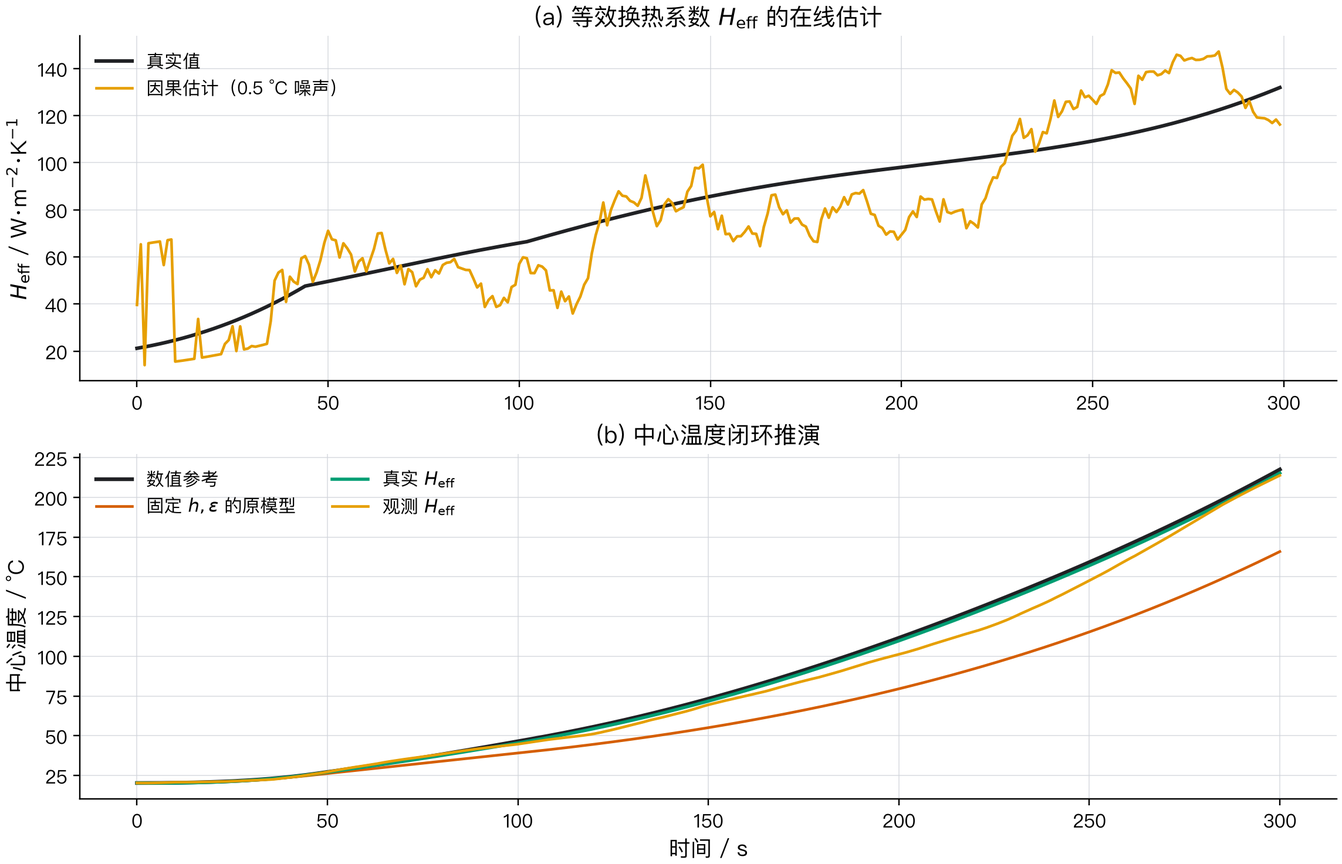
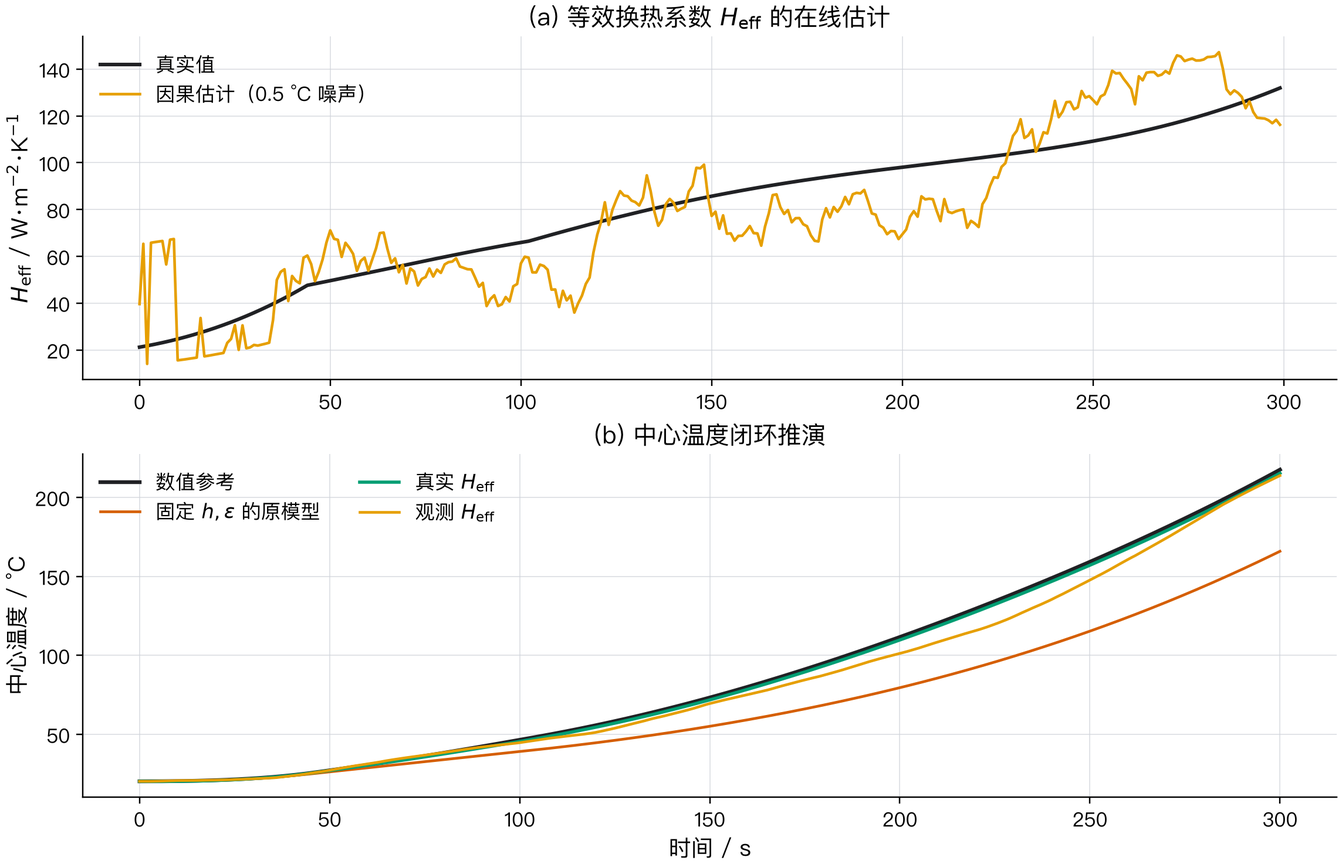
docs: address thesis review feedback

diff --git a/paper/main.tex b/paper/main.tex
@@ -73,23 +73,25 @@
 \pagenumbering{Roman}
 \chapter*{摘\quad 要}
 \addcontentsline{toc}{chapter}{摘要}
-金属热处理过程需要同时掌握工件内部温度场、炉温控制和表面换热状态。传统数值求解能够提供可靠基准，但在大量候选工艺推演和在线滚动决策中计算开销随模型规模快速增长。固定工况的温度场拟合又难以直接回答控制量改变后的未来状态。本文将热处理温度场表述为受控动力学系统，构建显式接收当前温度场、炉温动作和热物性参数的递归世界模型。模型以残差多层感知机预测温度增量，采用五步闭环展开训练，并把温变热传导及对流辐射边界的离散能量残差加入损失函数。
+金属热处理过程需要同时掌握工件内部温度场、炉温控制和表面换热状态。传统数值求解能够提供可靠基准，但在大量候选工艺推演和在线滚动决策中计算开销随模型规模快速增长。固定工况的温度场拟合又难以直接回答控制量改变后的未来状态。本文将热处理温度场表述为受控动力学系统，构建显式接收当前温度场、炉温动作和热物性参数的递归世界模型。该模型属于有监督神经动力学模型，以离散物理残差作为正则项。模型采用多层感知机预测温度增量，通过五步闭环展开学习递归状态转移。
 
-动态边界的可辨识性分析给出本文的关键参数化。单次温度转移对对流换热系数和表面发射率的灵敏度只有一个独立方向，可观测量为等效换热系数 $\Heff$。据此建立 $\Heff$ 驱动的状态转移模型，并配置因果边界观测器和增广状态集合卡尔曼滤波器。该结构把温度场预测、边界估计和滚动控制连接到同一状态空间中。
+动态边界的瞬时局部可辨识性分析给出本文的关键参数化。在 $h(t)$ 与 $\varepsilon(t)$ 逐时自由变化的观测模型下，单次温度转移对二者的灵敏度只有一个独立方向，可观测组合为等效换热系数 $\Heff$。据此建立 $\Heff$ 驱动的状态转移模型，并配置因果边界观测器和增广状态集合卡尔曼滤波器。控制器采用常值尾部假设下的单移动阻塞滚动动作搜索。该结构把温度场预测、边界估计和控制连接到同一状态空间中。
 
-数值实验采用 C45/AISI 1045 类中碳钢一维平板，考虑温变导热系数、温变比热和灰体辐射。三随机种子结果显示，物理约束模型在控制曲线 OOD 上将滚动 RMSE 降低 $6.8\%$，将物理残差降低 $44.8\%$。四参数组合 OOD 的最大误差由 \SI{121.76}{\degreeCelsius} 降至 \SI{61.69}{\degreeCelsius}。在动态边界测试中，$\Heff$ 参数化将滚动 RMSE 从 $2.285\pm0.108$~\si{\degreeCelsius} 降至 $1.409\pm0.068$~\si{\degreeCelsius}。独立自适应 BDF 求解器上的结果保持一致，单条轨迹推演获得 55.4 倍在线加速。五个测点配合集合滤波后，中心温度状态估计 RMSE 为 \SI{0.231}{\degreeCelsius}。严格参数 OOD 工况下，风险感知控制的场景配对综合目标平均降低 1.737，95\% bootstrap 区间为 $[-3.291,-0.226]$。这些结果说明，可辨识边界表示和轨迹级物理约束能够提高热处理世界模型的分布外推演质量，并支持内部温度不可完全测量时的滚动工艺决策。
+数值实验采用 C45/AISI 1045 类中碳钢一维平板，考虑温变导热系数、温变比热和灰体辐射。三随机种子结果显示，物理正则使控制曲线 OOD 的离散物理残差降低 $44.8\%$。四参数组合 OOD 的最大误差由 \SI{121.76}{\degreeCelsius} 降至 \SI{61.69}{\degreeCelsius}。在动态边界测试中，$\Heff$ 参数化将滚动 RMSE 从 $2.285\pm0.108$~\si{\degreeCelsius} 降至 $1.409\pm0.068$~\si{\degreeCelsius}。交叉求解器数值验证保持相同排序，单条轨迹推演获得 55.4 倍在线加速。在包含中心热电偶的理想五测点场景中，未观测节点 RMSE 为 \SI{1.073}{\degreeCelsius}。严格参数 OOD 工况下，风险感知控制的场景配对综合目标平均降低 1.737，95\% bootstrap 区间为 $[-3.291,-0.226]$。这些结果说明，可辨识边界表示和轨迹级物理约束能够改善热处理世界模型的分布外推演质量，并支持内部温度不可完全测量时的滚动工艺决策。
 
 \noindent\textbf{关键词：} 金属热处理；温度场；物理信息神经网络；世界模型；参数辨识；模型预测控制
 
 \chapter*{Abstract}
 \addcontentsline{toc}{chapter}{Abstract}
-Accurate heat-treatment operation requires a joint description of the internal temperature field, furnace-temperature commands, and surface heat transfer. Conventional solvers provide reliable references, while repeated process screening and receding-horizon decisions become expensive as model fidelity grows. A fixed-condition field regressor also has no direct mechanism for evaluating unseen command sequences. This study formulates the thermal process as a controlled dynamical system and develops a recursive world model conditioned on the current temperature field, the furnace command, and thermophysical parameters. A residual multilayer perceptron predicts temperature increments. Five-step closed-loop unrolling and a discrete energy-balance loss encode temperature-dependent conduction and convective-radiative boundaries.
+\begin{spacing}{1.20}
+Accurate heat-treatment operation requires a joint description of the internal temperature field, furnace-temperature commands, and surface heat transfer. Conventional solvers provide reliable references, while repeated process screening and receding-horizon decisions become expensive as model fidelity grows. A fixed-condition field regressor also has no direct mechanism for evaluating unseen command sequences. This study formulates the thermal process as a controlled dynamical system and develops a supervised neural-dynamics world model conditioned on the current temperature field, furnace command, and thermophysical parameters. A multilayer perceptron predicts temperature increments. Five-step closed-loop unrolling and a discrete energy-balance regularizer encode temperature-dependent conduction and convective-radiative boundaries.
 
-The central methodological result is an identifiability-based boundary representation. The instantaneous sensitivities to convection coefficient and emissivity span only one independent direction. Their observable combination is the effective heat-transfer coefficient $\Heff$. An $\Heff$-conditioned transition model is therefore coupled with a causal observer and an augmented-state ensemble Kalman filter. This construction places field prediction, boundary estimation, and receding-horizon control in one state-space pipeline.
+The central methodological result is an identifiability-based boundary representation. When the convection coefficient and emissivity vary freely at each step, their instantaneous sensitivities span one independent direction. Their observable combination is the effective heat-transfer coefficient $\Heff$. An $\Heff$-conditioned transition model is coupled with a causal observer and an augmented-state ensemble Kalman filter. Control uses single-move-blocking action search under a constant-tail assumption.
 
-Numerical experiments consider a one-dimensional C45/AISI 1045 steel slab with temperature-dependent conductivity and heat capacity. Across three random seeds, physics regularization reduces rollout RMSE by $6.8\%$ and discrete physical residual by $44.8\%$ under out-of-distribution control programs. Under combined parameter shift, maximum absolute error decreases from \SI{121.76}{\degreeCelsius} to \SI{61.69}{\degreeCelsius}. For time-varying boundaries, the identifiable representation reduces rollout RMSE from $2.285\pm0.108$ to $1.409\pm0.068$~\si{\degreeCelsius}. Validation with an independent adaptive BDF solver preserves this gain and yields a $55.4\times$ online rollout speedup. With five temperature sensors, ensemble data assimilation estimates the center temperature with an RMSE of \SI{0.231}{\degreeCelsius}. Under a stringent parameter-shift control test, the mean paired reduction in the risk-aware aggregate objective is 1.737, with a 95\% bootstrap interval of $[-3.291,-0.226]$. The results support identifiable boundary modeling and trajectory-level physical regularization as practical ingredients for robust thermal-process world models.
+Numerical experiments consider a one-dimensional C45/AISI 1045 steel slab with temperature-dependent conductivity and heat capacity. Across three random seeds, physics regularization reduces the discrete physical residual by $44.8\%$ under out-of-distribution control programs. Under combined parameter shift, maximum absolute error decreases from \SI{121.76}{\degreeCelsius} to \SI{61.69}{\degreeCelsius}. For time-varying boundaries, the identifiable representation reduces rollout RMSE from $2.285\pm0.108$ to $1.409\pm0.068$~\si{\degreeCelsius}. Cross-solver numerical validation preserves this ranking and yields a $55.4\times$ online rollout speedup. In an idealized five-sensor layout containing a center thermocouple, the unobserved-node RMSE is \SI{1.073}{\degreeCelsius}. Under a stringent parameter-shift control test, the mean paired reduction in the risk-aware aggregate objective is 1.737, with a 95\% bootstrap interval of $[-3.291,-0.226]$. The results support identifiable boundary modeling and trajectory-level physical regularization as practical ingredients for robust thermal-process world models.
 
 \noindent\textbf{Keywords:} metal heat treatment; temperature field; physics-informed neural network; world model; parameter identification; model predictive control
+\end{spacing}
 
 \tableofcontents
 \clearpage

diff --git a/scripts/analyze_thesis_supplement.py b/scripts/analyze_thesis_supplement.py
@@ -8,6 +8,9 @@ from pathlib import Path
 
 import numpy as np
 
+from heat_world_model.evaluate import rollout_predictions
+from heat_world_model.model import load_world_model
+
 
 SEEDS = (42, 7, 123)
 METRICS = ("objective", "overtemperature_c", "final_center_abs_error_c")
@@ -164,6 +167,116 @@ def paired_risk_summary(
     }
 
 
+def paired_control_ood_summary(
+    outputs: Path, bootstrap_samples: int, bootstrap_seed: int
+) -> dict[str, object]:
+    loaded = np.load(outputs / "c45_radiative_dataset.npz")
+    dataset = {name: loaded[name] for name in loaded.files}
+    mask = dataset["split"] == 3
+    roots = {
+        42: outputs / "c45_physics_weight_sweep",
+        7: outputs / "c45_physics_weight_seed7",
+        123: outputs / "c45_physics_weight_seed123",
+    }
+    checkpoints = {
+        "data_only": "weight_0.pt",
+        "physics_weight_0p001": "weight_0p001.pt",
+    }
+    trajectory_rmse: dict[str, list[np.ndarray]] = defaultdict(list)
+    for seed, root in roots.items():
+        for model_name, checkpoint in checkpoints.items():
+            model = load_world_model(root / checkpoint)
+            prediction, _ = rollout_predictions(
+                model,
+                dataset["states_c"][mask, 0],
+                dataset["controls_c"][mask],
+                dataset["parameters"][mask],
+            )
+            error = prediction[:, 1:] - dataset["states_c"][mask, 1:]
+            trajectory_rmse[model_name].append(
+                np.sqrt(np.mean(error**2, axis=(1, 2)))
+            )
+
+    baseline = np.mean(trajectory_rmse["data_only"], axis=0)
+    physics = np.mean(trajectory_rmse["physics_weight_0p001"], axis=0)
+    differences = physics - baseline
+    rng = np.random.default_rng(bootstrap_seed)
+    return {
+        "pairing_unit": (
+            "Each of 20 control-OOD trajectories is averaged over three model "
+            "seeds before forming physics-minus-data trajectory-RMSE differences."
+        ),
+        "trajectory_count": int(differences.size),
+        "data_only_mean_trajectory_rmse_c": float(baseline.mean()),
+        "physics_mean_trajectory_rmse_c": float(physics.mean()),
+        "mean_paired_difference_c": float(differences.mean()),
+        "median_paired_difference_c": float(np.median(differences)),
+        "bootstrap_95_ci_for_mean_difference_c": bootstrap_mean_ci(
+            differences, rng, bootstrap_samples
+        ),
+        "improved_trajectories": int(np.sum(differences < 0.0)),
+        "unchanged_trajectories": int(np.sum(np.isclose(differences, 0.0))),
+        "worsened_trajectories": int(np.sum(differences > 0.0)),
+    }
+
+
+def wilson_interval(successes: int, trials: int, z: float = 1.959963984540054) -> list[float]:
+    proportion = successes / trials
+    denominator = 1.0 + z**2 / trials
+    center = (proportion + z**2 / (2.0 * trials)) / denominator
+    half_width = (
+        z
+        * np.sqrt(
+            proportion * (1.0 - proportion) / trials
+            + z**2 / (4.0 * trials**2)
+        )
+        / denominator
+    )
+    return [float(center - half_width), float(center + half_width)]
+
+
+def success_interval_summary(outputs: Path) -> dict[str, object]:
+    sources = {
+        "dynamic_boundary_control": (
+            outputs / "c45_closed_loop_control" / "closed_loop_control_metrics.json"
+        ),
+        "partial_observability_id": (
+            outputs
+            / "c45_partial_observability"
+            / "partial_observability_metrics.json"
+        ),
+        "partial_observability_ood": (
+            outputs
+            / "c45_ood_partial_observability"
+            / "ood_partial_observability_metrics.json"
+        ),
+    }
+    result: dict[str, object] = {}
+    for experiment, source in sources.items():
+        payload = load_json(source)
+        aggregate = (
+            payload["aggregate"]
+            if experiment == "dynamic_boundary_control"
+            else payload["closed_loop"]["aggregate"]
+        )
+        experiment_result = {}
+        for controller, metrics in aggregate.items():
+            trials = int(metrics.get("episode_count", metrics.get("record_count")))
+            rate_value = metrics.get("success_rate", metrics.get("success"))
+            rate = float(
+                rate_value if isinstance(rate_value, (float, int)) else rate_value["mean"]
+            )
+            successes = int(round(rate * trials))
+            experiment_result[controller] = {
+                "successes": successes,
+                "trials": trials,
+                "success_rate": rate,
+                "wilson_95_interval": wilson_interval(successes, trials),
+            }
+        result[experiment] = experiment_result
+    return result
+
+
 def main() -> None:
     parser = argparse.ArgumentParser(
         description="Build controlled ablation and paired-control statistics for the thesis."
@@ -180,9 +293,13 @@ def main() -> None:
 
     result = {
         "rollout_horizon_ablation": rollout_horizon_summary(args.outputs),
+        "paired_control_ood_prediction": paired_control_ood_summary(
+            args.outputs, args.bootstrap_samples, args.bootstrap_seed
+        ),
         "paired_risk_control": paired_risk_summary(
             args.outputs, args.bootstrap_samples, args.bootstrap_seed
         ),
+        "control_success_intervals": success_interval_summary(args.outputs),
     }
     args.output.parent.mkdir(parents=True, exist_ok=True)
     serialized = json.dumps(result, ensure_ascii=False, indent=2) + "\n"

diff --git a/paper/chapters/06-conclusion.tex b/paper/chapters/06-conclusion.tex
@@ -6,17 +6,17 @@
 
 \begin{enumerate}
   \item 完整轨迹评价揭示了一步误差无法表达的长期行为。在相同数据、训练轮数和随机种子下，五步展开相对一步训练将 ID 轨迹 RMSE 降低 $4.2\%$，但控制 OOD 轨迹 RMSE 增加 $10.8\%$。因此，本文依据验证集轨迹误差选择五步设置，并把完整闭环轨迹作为模型选择与报告单位。
-  \item 物理约束提高了分布外轨迹的能量一致性和尾部稳定性。验证选择的 $10^{-3}$ 权重在三随机种子上将控制 OOD RMSE 降低 $6.8\%$，物理残差降低 $44.8\%$。四参数组合 OOD 的滚动 RMSE 降低 $29.5\%$，最大绝对误差降低约 $49.3\%$。
-  \item 动态对流辐射边界的瞬时温度响应只能识别 $\Heff=h+\varepsilon h_{\mathrm{rad}}$。该参数化将动态边界滚动 RMSE 从 $2.285\pm0.108$~\si{\degreeCelsius} 降至 $1.409\pm0.068$~\si{\degreeCelsius}。独立 BDF 求解器验证保持相同结论。
-  \item 五点带噪温度观测配合集合滤波得到 \SI{1.008}{\degreeCelsius} 的全场 RMSE 和 \SI{0.231}{\degreeCelsius} 的中心 RMSE。ID 条件下闭环成功率为 $100\%$。严格参数 OOD 条件下，风险感知控制的综合目标平均配对差为 $-1.737$，95\% bootstrap 区间为 $[-3.291,-0.226]$。
-  \item $\Heff$ 世界模型在独立 BDF 动力学上获得 55.4 倍完整轨迹推演加速，在候选动作规划中获得 63.4 倍加速。两项结果分别对应状态轨迹生成和滚动决策，说明该模型可以为高保真复核前的批量工艺筛选提供计算余量。
+  \item 物理约束的主要价值体现在能量一致性和参数组合外推。验证选择的 $10^{-3}$ 权重将控制 OOD 物理残差降低 $44.8\%$。控制 OOD 的总体 RMSE 均值降低 $6.8\%$，但逐轨迹配对区间跨越零，所以该数值只表示当前样本上的趋势。四参数组合 OOD 的滚动 RMSE 降低 $29.5\%$，最大绝对误差降低约 $49.3\%$。
+  \item 在本文逐时自由变化的瞬时观测模型下，动态对流辐射边界只能识别 $\Heff=h+\varepsilon h_{\mathrm{rad}}$。该参数化将动态边界滚动 RMSE 从 $2.285\pm0.108$~\si{\degreeCelsius} 降至 $1.409\pm0.068$~\si{\degreeCelsius}。交叉求解器数值验证保持相同排序。
+  \item 无中心测点的近表面四点方案取得 \SI{2.128}{\degreeCelsius} 的未观测节点 RMSE 和 \SI{2.854}{\degreeCelsius} 的中心 RMSE。包含中心热电偶的理想五点方案将未观测节点 RMSE 降至 \SI{1.073}{\degreeCelsius}。ID 条件下后验均值控制 30/30 个回合成功。严格参数 OOD 条件下，风险感知控制的综合目标平均配对差为 $-1.737$，95\% bootstrap 区间为 $[-3.291,-0.226]$。
+  \item $\Heff$ 世界模型在 BDF 交叉求解器对照中获得 55.4 倍完整轨迹推演加速，在常值尾部候选动作规划中获得 63.4 倍加速。两项结果分别对应状态轨迹生成和滚动决策，说明该模型可以为高保真复核前的批量工艺筛选提供计算余量。
 \end{enumerate}
 
 上述结果支持一个明确判断。热处理世界模型的关键价值在于形成可递归、可观测、可用于动作比较的受控动力学表示。物理损失增强 OOD 稳定性，可辨识参数化减少动态边界歧义，状态估计器负责连接稀疏测量。三者共同决定模型能否进入闭环。
 
 \section{研究范围}
 
-本文证据来自一维对称平板数值实验。BDF 参考环境改变了离散网格和时间积分方法，但连续传热方程与材料物性函数保持一致。当前状态不含相变组织、热应力和变形。\SI{350}{\degreeCelsius} 目标跟踪用于检验控制链路，不构成完整的 C45 工业热处理制度。闭环实验尚未接入真实炉温、热电偶和执行器数据。因此，文中精度用于说明方法对当前热动力学环境的逼近和控制能力。
+本文证据来自一维对称平板数值实验。研究对象是金属热处理中的受控热动力学子问题，不覆盖完整的组织性能控制。BDF 参考环境改变了离散网格和时间积分方法，但连续传热方程与材料物性函数保持一致。当前状态不含相变组织、热应力和变形。\SI{350}{\degreeCelsius} 目标跟踪用于检验控制链路，不构成完整的 C45 工业热处理制度。闭环实验尚未接入真实炉温、热电偶和执行器数据。因此，文中精度用于说明方法对当前热动力学环境的逼近和控制能力。
 
 \section{后续工作}
 

diff --git a/paper/chapters/02-physical-model.tex b/paper/chapters/02-physical-model.tex
@@ -46,7 +46,7 @@
 
 \section{温变物性与参数空间}
 
-高温物性采用公开 AISI 1045 数据表的分段线性插值\cite{sanchez2023splat}。Carollo 等的低温实验反演结果用于核对低温段变化趋势\cite{carollo2019properties}。表\ref{tab:properties}列出计算所用节点值。原始数据在 \SI{600}{\degreeCelsius} 至 \SI{800}{\degreeCelsius} 间给出明显的比热变化，本文按表值插值，并将其视为给定的等效热容曲线。该曲线没有进一步分解显热和相变潜热，所以本研究不据此解释组织转变。
+高温物性采用公开 AISI 1045 数据表的分段线性插值\cite{sanchez2023splat}。Carollo 等的低温实验反演结果用于核对低温段变化趋势\cite{carollo2019properties}。表\ref{tab:properties}列出计算所用节点值。原始数据在 \SI{600}{\degreeCelsius} 至 \SI{800}{\degreeCelsius} 间给出明显的比热变化，本文按表值插值，并将其作为经验等效热容曲线。相变附近的表观热容效应可能包含在经验数据中，但数据源未将其与显热、潜热分别标定。当前模型不建立显式相变动力学，也不据此解释组织转变。
 
 \begin{table}[H]
   \centering
@@ -90,7 +90,7 @@
 \end{equation}
 其中 $\Heff_1^n=h^n+\varepsilon^nh_{\mathrm{rad}}(T_1^n,\Tinfty^n)$，右侧表面采用镜像形式。该格式为数据生成和训练物理残差提供统一离散基础。
 
-独立验证使用 SciPy 自适应 BDF 积分器和 81 节点网格。相同连续方程在方法、步长控制和空间分辨率上与训练生成器不同。参考求解器采用相对容差 $10^{-6}$、绝对温度容差 $10^{-7}$~\si{\degreeCelsius}、最大内部步长 \SI{0.25}{\second}。161 节点与更小时间步的收敛检查分别得到平均 RMSE \SI{0.00248}{\degreeCelsius} 和 \SI{0.00425}{\degreeCelsius}。训练生成器与 BDF 参考轨迹的整体 RMSE 为 \SI{0.166}{\degreeCelsius}。该差异远小于神经模型的轨迹误差，可用于独立评价。
+交叉求解器数值验证使用 SciPy 自适应 BDF 积分器和 81 节点网格。相同连续方程在离散方法、步长控制和空间分辨率上与训练生成器不同。参考求解器采用相对容差 $10^{-6}$、绝对温度容差 $10^{-7}$~\si{\degreeCelsius}、最大内部步长 \SI{0.25}{\second}。161 节点与更小时间步的收敛检查分别得到平均 RMSE \SI{0.00248}{\degreeCelsius} 和 \SI{0.00425}{\degreeCelsius}。训练生成器与 BDF 参考轨迹的整体 RMSE 为 \SI{0.166}{\degreeCelsius}。该检验用于排除模型只适配单一离散格式的情形，不替代真实炉体实验。
 
 \section{受控数值数据集}
 

diff --git a/paper/chapters/03-world-model.tex b/paper/chapters/03-world-model.tex
@@ -102,6 +102,9 @@ $R_i$ 的量纲为温度。表面节点残差由式\eqref{eq:surface_discrete_ba
 
 \section{动态边界的可辨识参数化}
 
+\noindent\textbf{命题 1（单步边界转移的局部不可辨识性）}
+在固定 $T_s$、$\Tinfty$ 且 $h,\varepsilon$ 均未知时，边界热流只依赖标量组合 $\Heff$，映射 $(h,\varepsilon)\mapsto q_s$ 非单射。
+
 由式\eqref{eq:heff_flux}定义
 \begin{equation}
   \Heff(t)=h(t)+\varepsilon(t)h_{\mathrm{rad}}(T_s(t),\Tinfty(t)).
@@ -117,7 +120,9 @@ $R_i$ 的量纲为温度。表面节点残差由式\eqref{eq:surface_discrete_ba
 \begin{equation}
   \delta h=-h_{\mathrm{rad}}\delta\varepsilon,
 \end{equation}
-就能在当前状态保持相同热流。逐时自由变化的 $h(t)$ 和 $\varepsilon(t)$ 因而没有唯一分解。该结论限定于本文的均匀灰体边界、已知表面温度和已知炉温。若参数在一段时间内保持常数，变化的 $h_{\mathrm{rad}}$ 可提供额外历史信息。对本文逐时变化的边界，$\Heff$ 是当前热流和单步状态转移的充分输入。
+就能在当前状态保持相同热流，命题得证。逐时自由变化的 $h(t)$ 和 $\varepsilon(t)$ 因而没有唯一分解。该结论限定于本文的均匀灰体边界、已知表面温度和已知炉温。若参数在一段时间内保持常数，变化的 $h_{\mathrm{rad}}$ 可提供额外历史信息。
+
+这里需要区分两种充分性。对已执行动作下的前向状态转移，$\Heff$ 是当前边界热流的充分输入。对候选炉温的反事实规划，$h_{\mathrm{rad}}$ 随炉温改变，当前 $\Heff$ 不能单独确定新动作下的边界热流。因此，$\Heff$ 不构成整个控制问题的充分统计量。
 
 基于该结论，本文构建第二类世界模型
 \begin{equation}
@@ -125,7 +130,7 @@ $R_i$ 的量纲为温度。表面节点残差由式\eqref{eq:surface_discrete_ba
   =F_{\theta}^{H}(\bm{s}_n,a_n,\Heff_n,s_k,s_c,L,\Delta t).
   \label{eq:heff_model}
 \end{equation}
-该表示消除了训练输入中的等价方向。网络无需学习同一边界热流对应的多组参数组合。对反事实动作 $a'$，$h$ 与 $\varepsilon$ 的分解仍决定新的辐射贡献。因此，闭环规划阶段使用增广状态滤波器保持二者的后验集合，并由每个集合成员计算候选动作下的 $\Heff(a')$。
+该表示消除了训练输入中的等价方向。网络无需学习同一边界热流对应的多组参数组合。闭环规划阶段使用增广状态滤波器保持 $h$ 与 $\varepsilon$ 的后验集合，并由每个集合成员计算候选动作下的 $\Heff(a')$。
 
 \section{评价指标}
 

diff --git a/scripts/generate_paper_trajectory_figures.py b/scripts/generate_paper_trajectory_figures.py
@@ -49,12 +49,12 @@ def configure_style() -> None:
         {
             "font.family": "sans-serif",
             "font.sans-serif": ["PingFang SC", "Arial Unicode MS", "DejaVu Sans"],
-            "font.size": 12.5,
-            "axes.titlesize": 13,
-            "axes.labelsize": 12,
-            "legend.fontsize": 10,
-            "xtick.labelsize": 10.5,
-            "ytick.labelsize": 10.5,
+            "font.size": 13,
+            "axes.titlesize": 13.5,
+            "axes.labelsize": 12.5,
+            "legend.fontsize": 11,
+            "xtick.labelsize": 11,
+            "ytick.labelsize": 11,
             "axes.unicode_minus": False,
             "figure.facecolor": "white",
             "axes.facecolor": "white",
@@ -295,8 +295,8 @@ def plot_control_metric_grid(
         entries = (
             ("fixed_750c", "固定\n750 °C"),
             ("proportional_feedback", "比例\n反馈"),
-            ("source_solver_mpc", "源求解器\nMPC"),
-            ("reference_solver_mpc", "BDF\nMPC"),
+            ("source_solver_mpc", "源求解器\n滚动搜索"),
+            ("reference_solver_mpc", "BDF\n滚动搜索"),
             ("legacy_world_model_oracle|weight=0.001", "原世界模型\n真实边界"),
             ("effective_world_model_oracle|weight=0.001", "$H_{\\mathrm{eff}}$ 模型\n真实边界"),
             ("effective_world_model_observer|weight=0.001|noise=0C", "$H_{\\mathrm{eff}}$ 观测\n无噪声"),
@@ -730,7 +730,7 @@ def plot_closed_loop_control(output_dir: Path) -> None:
     cases = (
         ("fixed_750c", "固定炉温", None, 0.0, 1),
         ("proportional_feedback", "比例反馈", None, 0.0, 1),
-        ("reference_solver_mpc", "BDF 模型预测控制", None, 0.0, 1),
+        ("reference_solver_mpc", "BDF 滚动动作搜索", None, 0.0, 1),
         (
             "effective_world_model_oracle",
             r"$H_{\mathrm{eff}}$ 世界模型（真实边界）",

diff --git a/docs/experiment-freeze.md b/docs/experiment-freeze.md
@@ -54,16 +54,16 @@ PYTHONPATH=src uv run --no-sync python scripts/analyze_thesis_supplement.py
 
 ## 5. 写作取数原则
 
-论文正文优先使用三随机种子汇总、独立 BDF 轨迹和闭环执行结果。探索性单次运行只用于说明现象，不承担核心结论。完整轨迹速度比较使用 BDF 与世界模型的中位时间，规划速度另按闭环回合统计。所有结论限定在当前一维 C45 钢数值研究范围内。
+论文正文优先使用三随机种子汇总、BDF 交叉求解器轨迹和闭环执行结果。探索性单次运行只用于说明现象，不承担核心结论。完整轨迹速度比较使用 BDF 与世界模型的中位时间，规划速度另按闭环回合统计。所有结论限定在当前一维 C45 钢数值研究范围内。
 
 ## 6. 论文修订补充分析
 
-论文修订增加两项不改变基础实验版本的分析。第一项在相同数据、网络容量、训练轮数、优化器和三个随机种子下比较一步与五步展开。一步模型目录为 `outputs/c45_rollout_horizon_k1_seed42`、`outputs/c45_rollout_horizon_k1_seed7` 和 `outputs/c45_rollout_horizon_k1_seed123`；五步模型沿用物理权重实验中的三个对应种子。第二项先在每个严格参数 OOD 场景内平均三个模型种子，再计算风险分位控制相对后验均值控制的配对差，并对 10 个场景进行 100000 次 bootstrap 重采样。
+论文修订增加三项不改变基础实验版本的分析。第一项在相同数据、网络容量、训练轮数、优化器和三个随机种子下比较一步与五步展开。一步模型目录为 `outputs/c45_rollout_horizon_k1_seed42`、`outputs/c45_rollout_horizon_k1_seed7` 和 `outputs/c45_rollout_horizon_k1_seed123`；五步模型沿用物理权重实验中的三个对应种子。第二项在每条控制 OOD 轨迹内先平均三个模型种子，再计算物理模型相对数据模型的轨迹 RMSE 配对差。第三项对严格参数 OOD 控制采用相同的场景配对原则，并对 10 个场景进行 100000 次 bootstrap 重采样。控制成功率另报告 95\% Wilson 区间。
 
 补充分析结果文件如下。
 
 | 结果文件 | SHA-256 |
 | --- | --- |
[2 lines of base64/hex data omitted]
 
-等预算展开步数实验表明，五步模型的验证集轨迹 RMSE 比一步模型低 $1.3\%$，ID 测试集低 $4.2\%$，控制 OOD 测试集高 $10.8\%$。论文据验证集选择五步模型，不把展开步数表述为普遍精度优势。风险控制的综合目标平均配对差为 $-1.737$，95\% bootstrap 区间为 $[-3.291,-0.226]$；中心误差区间跨越零，超温变化集中在一个场景。正文只将综合目标的配对改善作为统计结论。
+等预算展开步数实验表明，五步模型的验证集轨迹 RMSE 比一步模型低 1.3%，ID 测试集低 4.2%，控制 OOD 测试集高 10.8%。论文据验证集选择五步模型，不把展开步数表述为普遍精度优势。控制 OOD 的 20 条轨迹中有 12 条 RMSE 改善，平均配对差为 -0.220℃，95% bootstrap 区间为 [-0.588, 0.153]℃，所以正文只将总体 RMSE 变化作为均值趋势。风险控制的综合目标平均配对差为 -1.737，95% bootstrap 区间为 [-3.291, -0.226]；中心误差区间跨越零，超温变化集中在一个场景。正文只将综合目标的配对改善作为风险控制统计结论。
